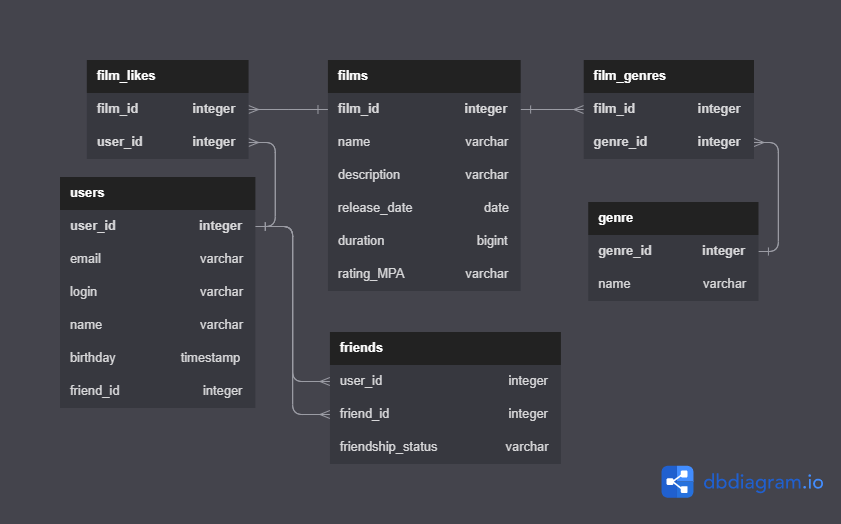
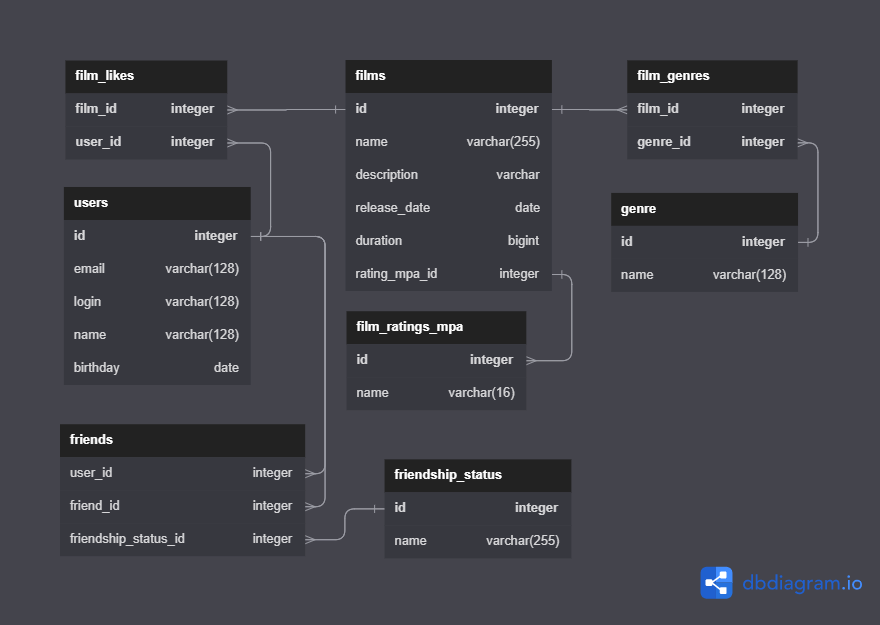
feat: добавлены новые модели и поправлены старые

diff --git a/src/main/java/ru/yandex/practicum/filmorate/model/User.java b/src/main/java/ru/yandex/practicum/filmorate/model/User.java
@@ -5,8 +5,6 @@ import lombok.Data;
 
 import javax.validation.constraints.*;
 import java.time.LocalDate;
-import java.util.HashSet;
-import java.util.Set;
 
 @Builder
 @Data
@@ -24,14 +22,4 @@ public class User {
 
     @PastOrPresent(message = "дата рождения не может быть в будущем.")
     private LocalDate birthday;
-
-    private final Set<Integer> friends = new HashSet<>();
-
-    public void addFriend(int friendId) {
-        friends.add(friendId);
-    }
-
-    public void deleteFriend(int friendId) {
-        friends.remove(friendId);
-    }
 }

diff --git a/src/main/java/ru/yandex/practicum/filmorate/model/Film.java b/src/main/java/ru/yandex/practicum/filmorate/model/Film.java
@@ -28,6 +28,10 @@ public class Film {
     @Positive
     private long duration;
 
+    private Set<Integer> genres;
+
+    private int ratingMPA;
+
     private final Set<Integer> likes = new HashSet<>();
 
     public void addLike(int userId) {

diff --git a/src/main/java/ru/yandex/practicum/filmorate/model/Friends.java b/src/main/java/ru/yandex/practicum/filmorate/model/Friends.java
@@ -1,0 +1,10 @@
+package ru.yandex.practicum.filmorate.model;
+
+import lombok.Data;
+
+@Data
+public class Friends {
+    private int userId;
+    private int friendId;
+    private int friendshipStatusId;
+}

diff --git a/src/main/java/ru/yandex/practicum/filmorate/model/FriendshipStatuses.java b/src/main/java/ru/yandex/practicum/filmorate/model/FriendshipStatuses.java
@@ -1,0 +1,9 @@
+package ru.yandex.practicum.filmorate.model;
+
+import lombok.Data;
+
+@Data
+public class FriendshipStatuses {
+    private int id;
+    private String name;
+}

diff --git a/src/main/java/ru/yandex/practicum/filmorate/model/FilmRatingsMPA.java b/src/main/java/ru/yandex/practicum/filmorate/model/FilmRatingsMPA.java
@@ -1,0 +1,9 @@
+package ru.yandex.practicum.filmorate.model;
+
+import lombok.Data;
+
+@Data
+public class FilmRatingsMPA {
+    private int id;
+    private String name;
+}

diff --git a/src/main/java/ru/yandex/practicum/filmorate/model/FilmGenres.java b/src/main/java/ru/yandex/practicum/filmorate/model/FilmGenres.java
@@ -1,0 +1,9 @@
+package ru.yandex.practicum.filmorate.model;
+
+import lombok.Data;
+
+@Data
+public class FilmGenres {
+    private int id;
+    private String name;
+}
